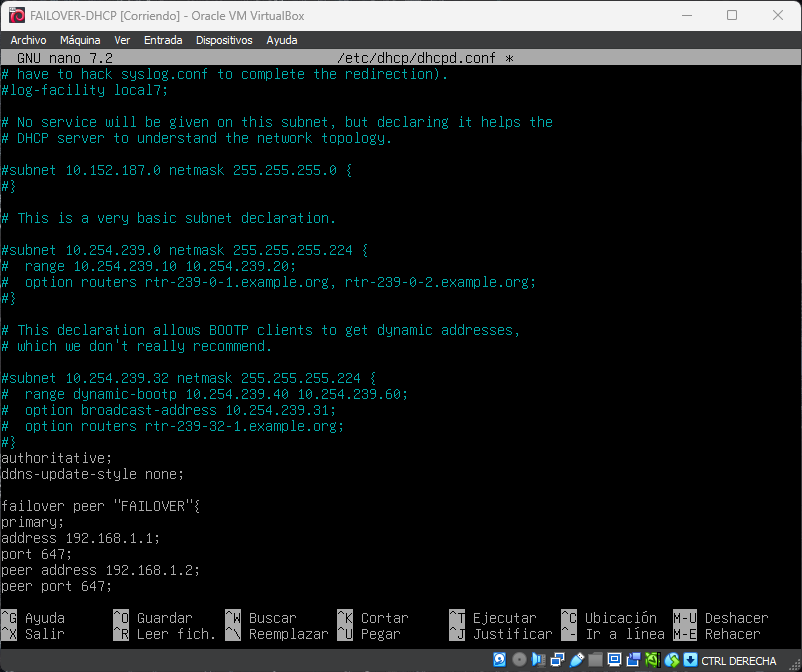
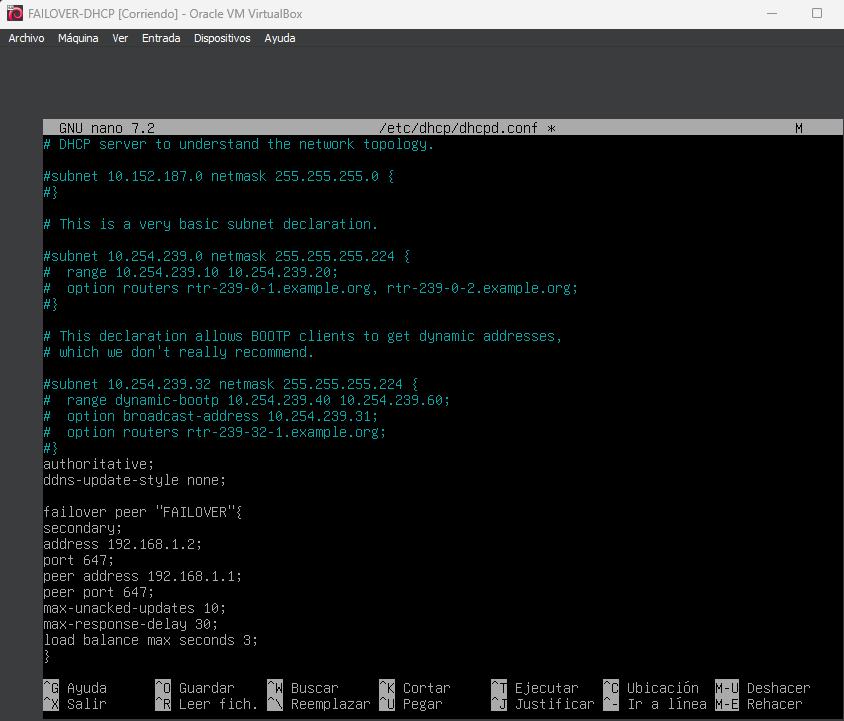
DHDH

Changed region(s): [[0.0, 0.0, 1.0, 1.0], [0.9975, 0.4375, 1.0, 0.5625]]

diff --git a/README.md b/README.md
@@ -266,15 +266,37 @@ Nos vamos al ficher `/etc/dhcp/dhcpd.conf` y añadimos las subnets igual que en 
 
 ![iguaalite](image-36.png)
 
-Como siempre reiniciamos el servicio.Volveremos a editar el archivo `/etc/default/isc-dhcp-server` para el peer EN EL SERVIDOR.
+Como siempre reiniciamos el servicio.Volveremos  a editar el archivo `/etc/default/isc-dhcp-server` para el peer secundario.
 
-![importantttt](image-37.png)
+![important](image-37.png)
 
 Por un lado esta configuración.
 
-![importantt](image-38.png)
+![importanttt](image-38.png)
 
-Comentar # max-lease-time 7200; y añadir el pool de failover como en la imagen
+Por otro lado esta configuración, comentar la línea #range #max-lease-time 7200; y el pool.
+
+Por último reiniciamos el servicio y **EDITAMOS EL FICHERO `/etc/dhcp/dhcpd.conf` DEL SERVIDOR PRIMARIO** para añadir el peer primario.
+
+
+![serve](image-39.png)
+![alt text](image-40.png)
+
+
+AHORA SOLO QUEDARÍA REINICIAR EL SERVICIO EN AMBOS SERVIDORES Y COMPROBAR QUE NO HAYA ERRORES.
+
+```bash
+systemctl restart isc-dhcp-server
+Systemctl status isc-dhcp-server
+```
+
+## 10. CONCLUSIÓN
+
+Con esto ya tendríamos un servidor dhcp con relay y failover para asegurar la alta disponibilidad del servicio. Si el servidor primario cae, el secundario seguirá proporcionando ips a los clientes. Si el relay cae, el servidor primario seguirá proporcionando ips a los clientes de la misma red. Si el cliente se encuentra en otra red, el relay se encargará de encaminar la petición dhcp al servidor primario.
+
+PARANDO EL SERVIDOR PRIMARIO `systemctl stop isc-dhcp-server` y comprobamos que el servidor secundario sigue proporcionando ips a los clientes.
+
+
 
 
 
